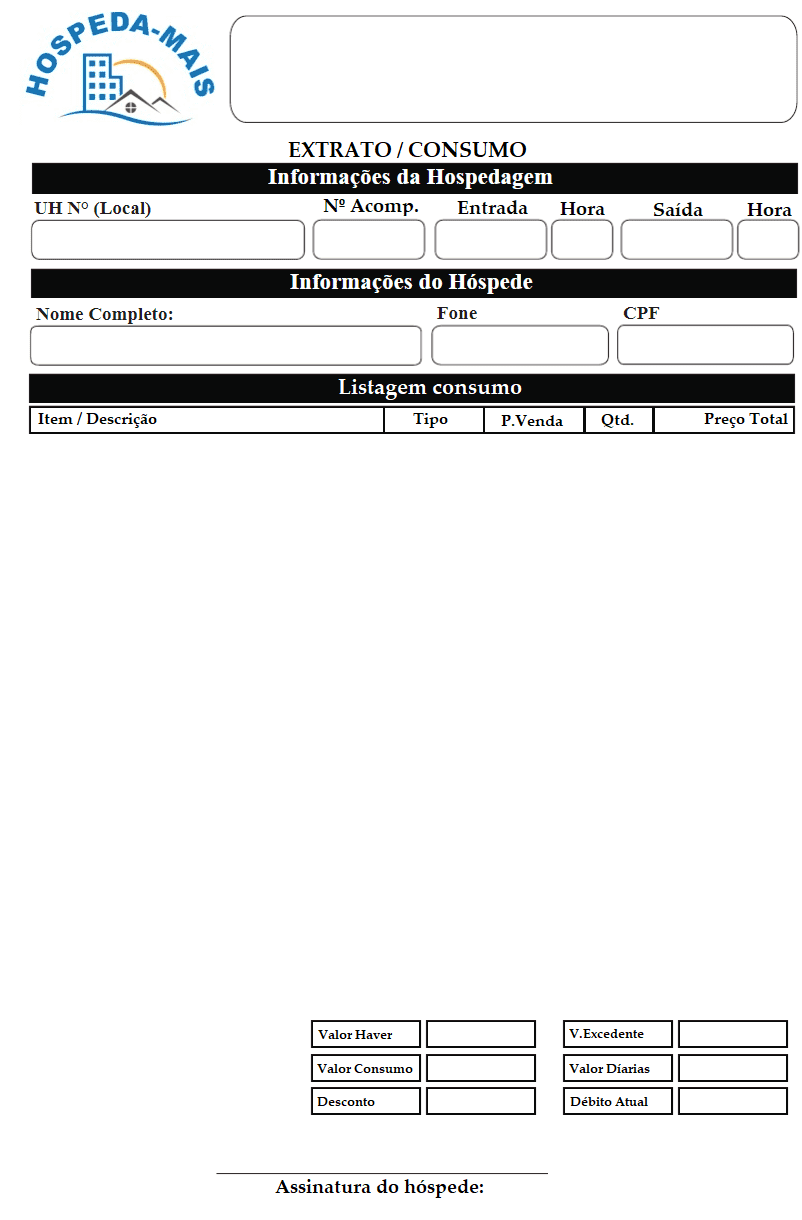
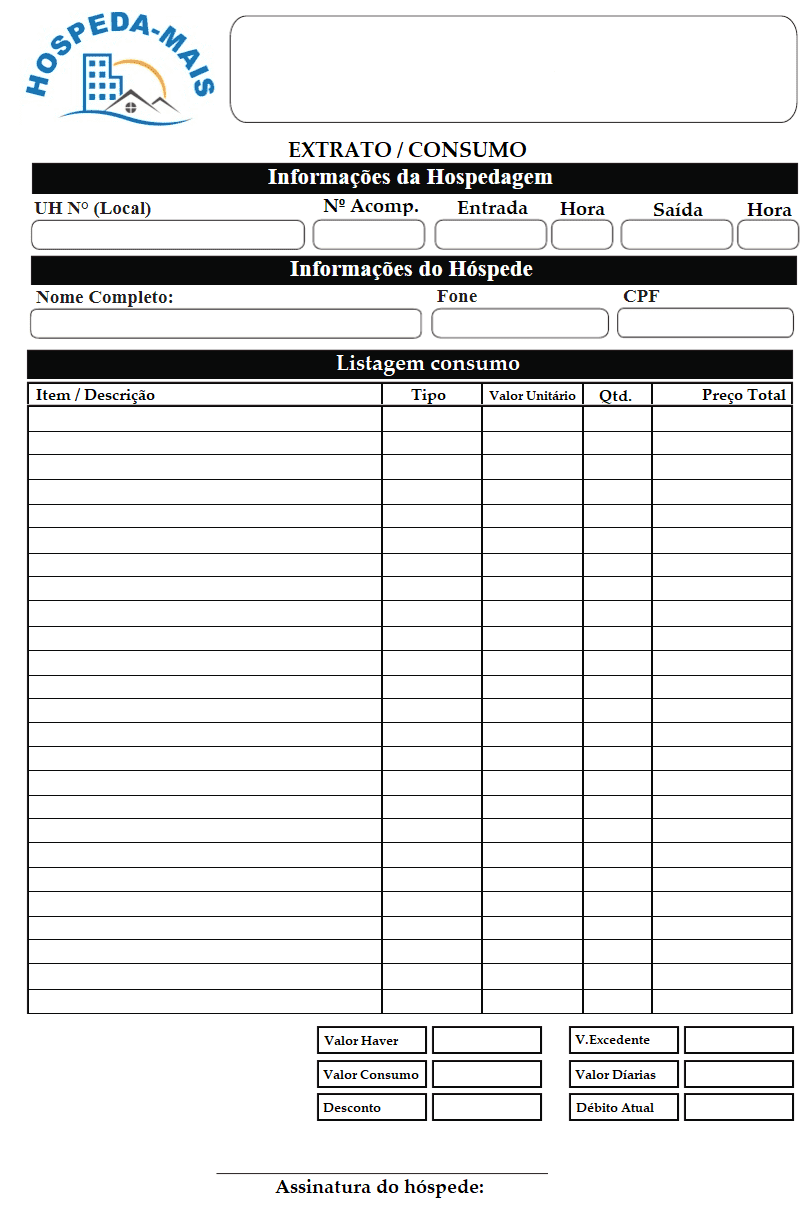
Relatorio do Extrato de Consumo 100%

diff --git a/home/templates/home/relatorios/extratoConsumo.html b/home/templates/home/relatorios/extratoConsumo.html
@@ -46,40 +46,40 @@
 <!-- Impressão cabeçalho com os dados da empresa ( End )-->
 
 <!-- Impressão dos dados da hospedagem ( Start )-->
-<p style="position:absolute;top:220px;left:50px;white-space:nowrap" class="ft01">
+<p style="position:absolute;top:217px;left:50px;white-space:nowrap" class="ft01">
     <a>{{ descricao_apartamento }}</a>
 </p>
-<p style="position:absolute;top:220px;left:398px;white-space:nowrap" class="ft01">
+<p style="position:absolute;top:217px;left:398px;white-space:nowrap" class="ft01">
     <a>
         {% if qtd_excedentes %}
             {{ qtd_excedentes }}
         {% endif %}
     </a>
 </p>
-<p style="position:absolute;top:220px;left:505px;white-space:nowrap" class="ft01">
+<p style="position:absolute;top:217px;left:505px;white-space:nowrap" class="ft01">
     <a>{{ data_entrada|date:"d/m/Y" }}</a>
 </p>
-<p style="position:absolute;top:220px;left:622px;white-space:nowrap" class="ft01">
+<p style="position:absolute;top:217px;left:622px;white-space:nowrap" class="ft01">
     <a>{{ hora_entrada }}</a>
 </p>
-<p style="position:absolute;top:220px;left:710px;white-space:nowrap" class="ft01">
+<p style="position:absolute;top:217px;left:710px;white-space:nowrap" class="ft01">
     <a>{{ data_saida|date:"d/m/Y" }}</a>
 </p>
-<p style="position:absolute;top:220px;left:828px;white-space:nowrap" class="ft01">
+<p style="position:absolute;top:217px;left:828px;white-space:nowrap" class="ft01">
     <a>{{ hora_saida }}</a>
 </p>
 <!-- Impressão dos dados da hospedagem ( End )-->
 
 <!-- Impressão dos dados do hospede ( Start )-->
-<p style="position:absolute;top:330px;left:50px;white-space:nowrap" class="ft01">
+<p style="position:absolute;top:310px;left:50px;white-space:nowrap" class="ft01">
   <a>{{ nome_hospede }}</a>
 </p>
 
-<p style="position:absolute;top:330px;left:490px;white-space:nowrap" class="ft01">
+<p style="position:absolute;top:310px;left:490px;white-space:nowrap" class="ft01">
   <a>{{ fone_hospede }}</a>
 </p>
 
-<p style="position:absolute;top:462px;left:723px;white-space:nowrap" class="ft01">
+<p style="position:absolute;top:310px;left:723px;white-space:nowrap" class="ft01">
   <a>{{ cpf_hospede }}</a>
 </p>
 
@@ -89,29 +89,50 @@
 
 <!-- Impressão dos dados do hospede ( End )-->
 
+<!-- Impressão dos itens consumidos ( Start )-->
+
+<table style="position: absolute; top: 422px; table-layout: fixed;">
+  <tbody>
+    {% for item in itens_consumo_aparts %}
+      {% if forloop.counter <= 25 %}
+        <tr>
+          <td style="padding-left: 40px; padding-bottom: 4px; font-family: 'Courier New', Courier, monospace; width: 300px; white-space: nowrap; overflow: hidden; text-overflow: ellipsis;">{{ item.item_lancamento.descricao }}</td>
+          <td style="padding-left: 115px; padding-bottom: 4px; font-family: 'Courier New', Courier, monospace; white-space: nowrap;">{{ item.item_lancamento.unidade }}</td>
+          <td style="text-align: right; padding-left: 78px; padding-bottom: 4px; font-family: 'Courier New', Courier, monospace; white-space: nowrap;">{{ item.preco_item }}</td>
+          <td style="text-align: right; padding-left: 48px; padding-bottom: 4px; font-family: 'Courier New', Courier, monospace; width: 10px; white-space: nowrap; overflow: hidden; text-overflow: ellipsis;">{{ item.qtd_lancamento }}</td>
+          <td style="text-align: right; padding-left: 60px; padding-bottom: 4px; font-family: 'Courier New', Courier, monospace; width: 100px; white-space: nowrap; overflow: hidden; text-overflow: ellipsis;">{{ item.valor_total }}</td>
+        </tr>
+      {% endif %}
+    {% endfor %}
+  </tbody>
+</table>
+
+<!-- Impressão dos itens consumidos ( End )-->
+
+
 <!-- Impressão dos dados do resumo ( Start )-->
 
-<p style="position: absolute; top: 1043px; right: 310px; white-space: nowrap; text-align: right;" class="ft01">
+<p style="position: absolute; top: 1050px; right: 310px; white-space: nowrap; text-align: right;" class="ft01">
     <a><b>{{ valor_antecipado }}</b></a>
 </p>
 
-<p style="position:absolute;top:1043px; right:32px; white-space:nowrap" class="ft01">
+<p style="position:absolute;top:1050px; right:32px; white-space:nowrap" class="ft01">
     <a><b>{{ valor_pago_excedente }}</b></a>
 </p>
 
-<p style="position: absolute; top: 1078px; right: 310px; white-space: nowrap; text-align: right;" class="ft01">
+<p style="position: absolute; top: 1084px; right: 310px; white-space: nowrap; text-align: right;" class="ft01">
     <a><b>{{ valor_consumo }}</b></a>
 </p>
 
-<p style="position: absolute; top: 1078px; right: 32px; white-space: nowrap; text-align: right;" class="ft01">
+<p style="position: absolute; top: 1084px; right: 32px; white-space: nowrap; text-align: right;" class="ft01">
     <a><b>{{ ValorTotalDiarias }}</b></a>
 </p>
 
-<p style="position: absolute; top: 1112px; right: 310px; white-space: nowrap; text-align: right;" class="ft01">
+<p style="position: absolute; top: 1119px; right: 310px; white-space: nowrap; text-align: right;" class="ft01">
     <a><b>{{ desconto_debito }}</b></a>
 </p>
 
-<p style="position:absolute;top:1112px; right:32px; white-space:nowrap" class="ft01">
+<p style="position:absolute;top:1119px; right:32px; white-space:nowrap" class="ft01">
     <a><b>{{ valor_total_conta }}</b></a>
 </p>
 

diff --git a/home/views.py b/home/views.py
@@ -1193,6 +1193,8 @@ def ExtratoConsumoHospede(request, nome_apartamento, desconto_debito):
 
     itens_consumo_aparts = ItensConsumoAparts.objects.filter(empresa=empresa, apartamento_id=apartamento.pk, movimento_id=movimento.pk)
 
+    posicoes_top = [408] * len(itens_consumo_aparts)
+
     Somavalor_total = itens_consumo_aparts.aggregate(total=Sum('valor_total'))['total'] or 0
 
     hospede = hospedes.objects.get(id=movimento.hospede_id)
@@ -1264,6 +1266,8 @@ def ExtratoConsumoHospede(request, nome_apartamento, desconto_debito):
             'observacao': movimento.observacao,
             'pago_sn': movimento.pago_sn,
             'desconto_debito': locale.currency(abs(desconto_debito), grouping=True, symbol=True) if desconto_debito else "",
+            'itens_consumo_aparts': itens_consumo_aparts,
+            'posicoes_top': posicoes_top,
 
         }
     return render(request, 'home/relatorios/extratoConsumo.html', context)

diff --git a/home/models.py b/home/models.py
@@ -249,8 +249,7 @@ class ItensConsumoAparts(models.Model):
     valor_total = models.DecimalField(("Total"), max_digits=15, decimal_places=2, null=True, blank=True)
 
     def __str__(self):
-#      return f"{self.item_lancamento.descricao} - Apart: {self.valor_total}"
-     return f"Apart: {self.valor_total}"
+        return f"{self.item_lancamento.descricao} - Apart: {self.valor_total}"
 
 #########################################################################################
 

diff --git a/home/templatetags/custom_filters.py b/home/templatetags/custom_filters.py
@@ -1,0 +1,7 @@
+from django import template
+
+register = template.Library()
+
+@register.filter
+def zip_lists(a, b):
+    return zip(a, b)
